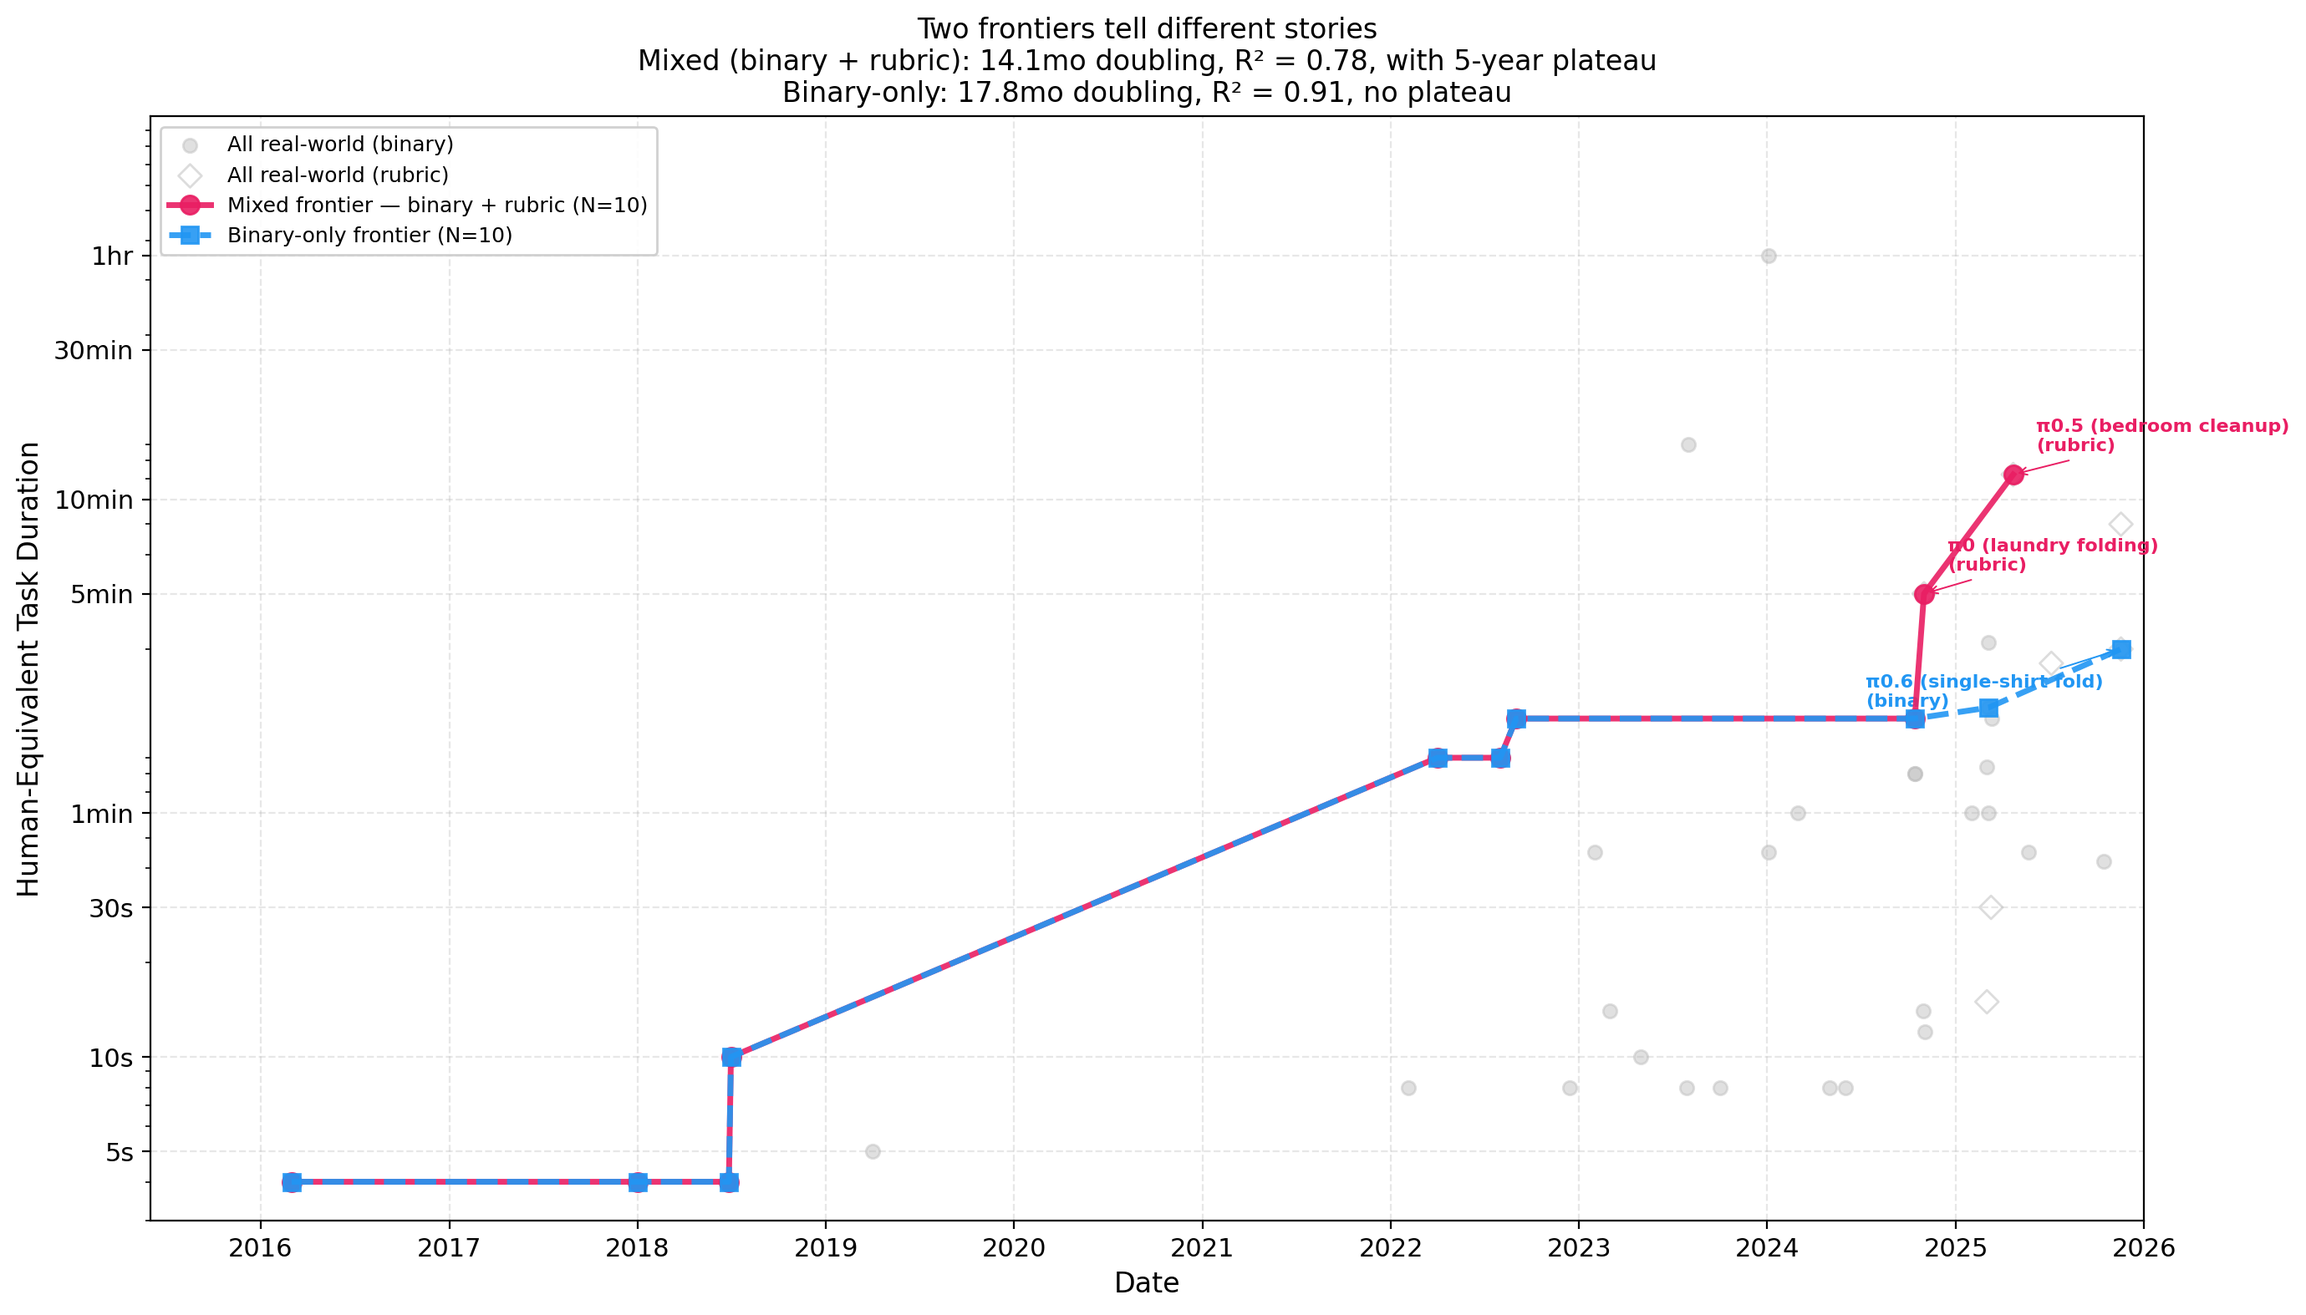
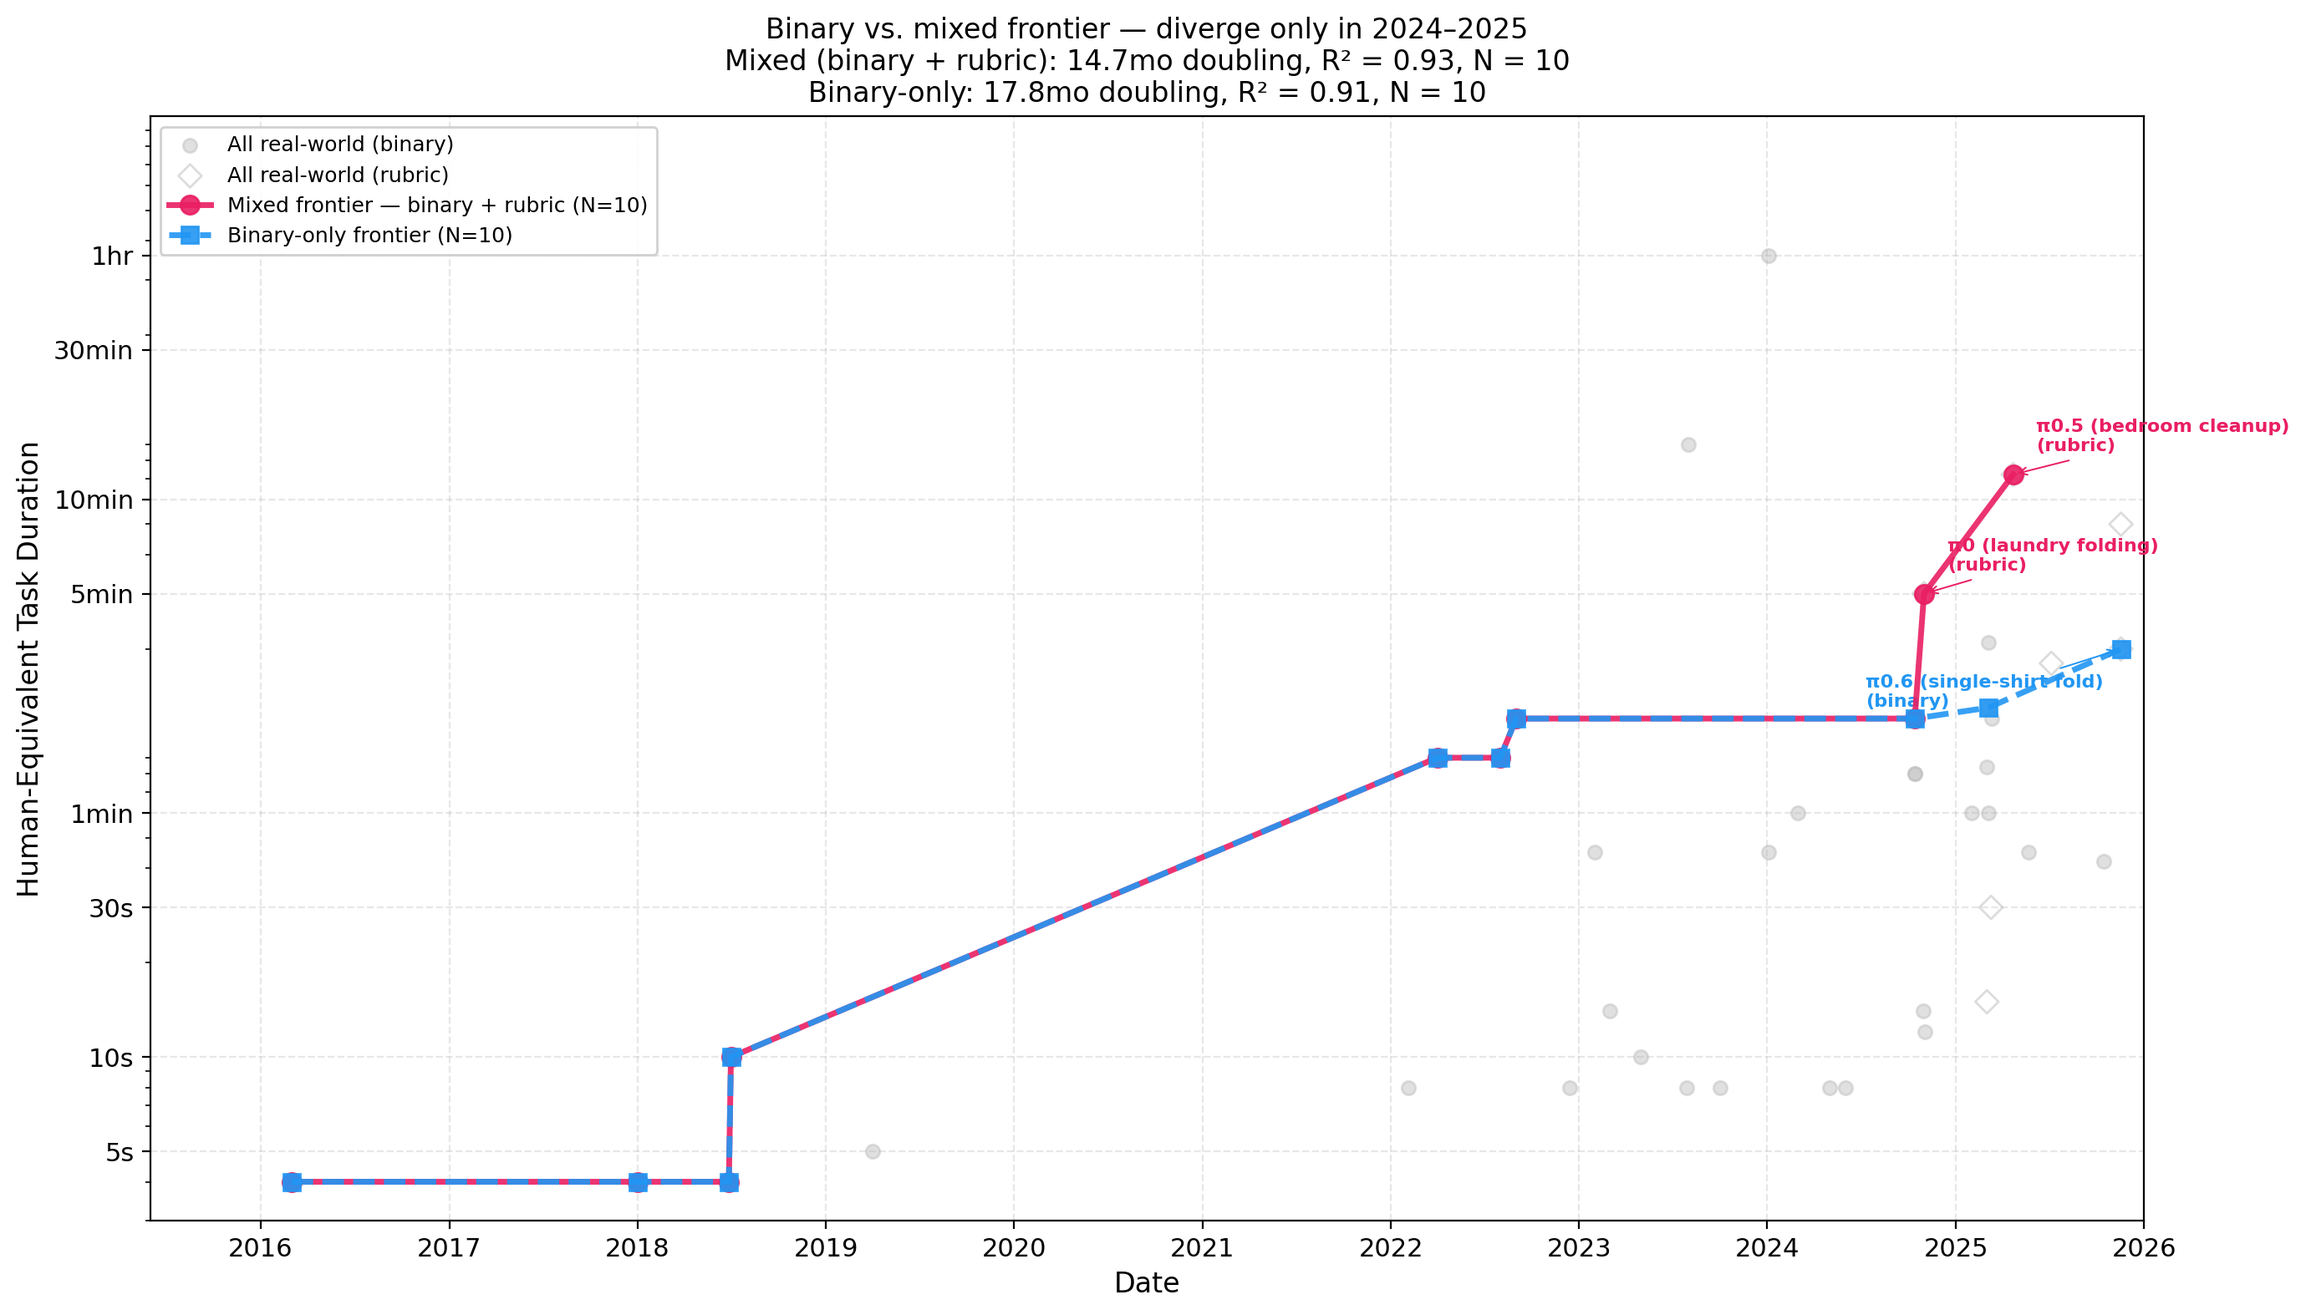
Reframe blog as meta-analysis and add future-of-eval section
Title and intro now state explicitly that this is a meta-analysis of
published results, not a unified evaluation. Methodology subsection
renamed accordingly. Adds a "On the future of robot eval" section
before the Conclusion sketching what a METR-rigor robot eval would
look like (heterogeneous hardware, real-only, pre-registered third-
party eval), what it would still miss (context-gathering, error
recovery, human-robot collaboration), and a call to startup/research/
investor communities. Also tightens binary-vs-mixed plot title to
reflect that the two frontiers diverge only at the recent end.

Changed region(s): [[0.2805, 0.0, 0.7169, 0.0934]]

diff --git a/scripts/plot_horizons.py b/scripts/plot_horizons.py
@@ -479,8 +479,9 @@ def plot_sensitivity(df, save=True):
 
 def plot_binary_vs_mixed_frontier(df, save=True):
     """Plot the canonical (binary + rubric) frontier and the binary-only
-    frontier on the same axes. The two tell different stories about the
-    2019–2024 plateau.
+    frontier on the same axes. They are identical through Oct 2024 and
+    diverge only at the recent end, where rubric-scored generalist VLAs
+    (π0, π0.5) extend the mixed frontier above the binary line.
     """
     fig, ax = plt.subplots(figsize=(14, 8))
 
@@ -548,9 +549,9 @@ def plot_binary_vs_mixed_frontier(df, save=True):
 
     ax.set_xlabel('Date')
     ax.set_ylabel('Human-Equivalent Task Duration')
-    ax.set_title('Two frontiers tell different stories\n'
-                 'Mixed (binary + rubric): 14.1mo doubling, R² = 0.78, with 5-year plateau\n'
-                 'Binary-only: 17.8mo doubling, R² = 0.91, no plateau',
+    ax.set_title('Binary vs. mixed frontier — diverge only in 2024–2025\n'
+                 'Mixed (binary + rubric): 14.7mo doubling, R² = 0.93, N = 10\n'
+                 'Binary-only: 17.8mo doubling, R² = 0.91, N = 10',
                  fontsize=12)
     ax.legend(loc='upper left', fontsize=9, framealpha=0.9)
     ax.grid(True, alpha=0.3, linestyle='--')

diff --git a/draft/blog_post.md b/draft/blog_post.md
@@ -1,4 +1,4 @@
-# The Task Horizon for Robotic Manipulation: A METR-Style Analysis
+# The Task Horizon for Robotic Manipulation: A Meta-Analysis of Published Results
 
 *How long a task can robots reliably complete — and how fast is that improving?*
 
@@ -8,7 +8,9 @@ METR's [time horizon analysis](https://metr.org/blog/2025-03-19-measuring-ai-abi
 
 One domain conspicuously absent from their analysis: **robotic manipulation**. Can we build the same chart for physical robots?
 
-We set out to answer this question by surveying a decade of robotic manipulation research (2016–2025), extracting the longest task each frontier system could complete at ≥50% success, and measuring that task in human-equivalent time. The result is, to our knowledge, the first "METR-style" task horizon plot for robotics.
+We set out to answer this question by surveying a decade of robotic manipulation research (2016–2025), extracting the longest task each frontier system could complete at ≥50% success, and measuring that task in human-equivalent time. The result is, to our knowledge, the first task horizon plot for robotics that aggregates across the field at this scale.
+
+**A note on what this is.** This study is a meta-analysis: we aggregated published numbers from 43 papers, technical reports, and benchmarks; we did not run a single new robot trial. METR's own studies are not meta-analyses — they evaluate every model on a shared, controlled task suite with measured human baselines, which is the gold standard for this kind of analysis. We can't replicate that for robotics today because the underlying infrastructure doesn't exist (more on why below, and on what it would take to build it in [On the future of robot eval](#on-the-future-of-robot-eval)). What we can do is rigorously aggregate what's already been published, document every judgment call, and publish the dataset so disagreements can be re-run rather than just argued.
 
 A caveat upfront: wide-scale unified evaluation is a harder problem for robotics than it is for LLMs. Manipulation results come in too many different shapes — different hardware, different task setups, different scoring protocols — to be made consistent the way LLM evaluations can be. That's a structural feature of the field, and it shapes everything that follows. We've done our best to extract a consistent signal from what's available; we don't claim the result is perfect, and we fully expect individual rows to be debated. The next section explains why the inconsistency is unavoidable for now.
 
@@ -44,11 +46,11 @@ Following METR, we define the **manipulation task horizon** as:
 
 **Human-equivalent time** is how long a competent human would take to perform the same task. This enables direct comparison with METR's LLM agent results, which use the same unit.
 
-We treat task duration as an **independently useful feature** — not as a proxy for task difficulty. Task difficulty is multidimensional (rigid vs. deformable objects, number of subtasks, degree of spatial reasoning required, etc.) and is not what we're directly measuring here. Duration is a meaningful capability metric on its own: it captures how long a robot can sustain reliable performance, regardless of whether a longer task is "harder" in any particular sense.
+We treat task duration as an **independently useful feature** — not as a proxy for task difficulty. Task difficulty is multidimensional (rigid vs. deformable objects, number of subtasks, degree of spatial reasoning required, etc.) and is not what we're directly measuring here. Duration is a meaningful capability metric on its own: it captures how long a robot can sustain reliable performance, regardless of whether a longer task is "harder" in any particular sense. The reason this matters operationally: per-step failure probability compounds over the length of a task, so each additional unit of autonomous duration directly determines how much human supervision a deployment requires. Task horizon is, in that sense, a fairly direct measure of the operational-cost axis of robot deployment, even when it doesn't tell you which specific tasks are harder than others.
 
-### Data Collection
+### Meta-Analytic Extraction
 
-We surveyed 43 robotic manipulation rows from published papers, benchmarks, and demonstrations spanning 2016–2025. For each, we recorded:
+This study is a meta-analysis. We surveyed 43 robotic manipulation rows from published papers, benchmarks, and demonstrations spanning 2016–2025 and re-aggregated their reported numbers under a single inclusion bar and a single set of conventions. We did not run any new robot trials. For each row, we recorded:
 
 - The longest task demonstrated at ≥50% success
 - The reported success rate and number of evaluation trials
@@ -213,17 +215,45 @@ Several parallel efforts inform this analysis:
 
 ## Limitations
 
-1. **Small frontier sample size.** The canonical frontier has 10 points spanning ~10 years. The exponential fit is suggestive but not definitive — the bootstrap CI (11.9–18.0 months) reflects the small N.
+1. **This is a meta-analysis, not a unified evaluation.** Every row is somebody else's reported number, extracted under our conventions and inclusion bar but not re-measured. We don't have shared tasks, shared hardware, or shared scoring across rows. METR's studies are not meta-analyses, and the methodology gap is real — see [On the future of robot eval](#on-the-future-of-robot-eval) for what closing it would take.
 
-2. **Heterogeneous evaluations.** Unlike METR, we cannot evaluate all systems on identical tasks. Hardware, evaluation protocols, and success criteria differ across every data point.
+2. **Publication and selection bias.** Authors choose which tasks to publish success rates for, and unsuccessful long-horizon attempts are systematically underreported. We may also be missing systems that pushed the frontier but weren't widely cited or didn't report success rates in a form we could include.
 
-3. **Human time estimation.** Some human-equivalent times are estimated rather than measured. We mark these in the dataset with confidence levels. METR themselves found this estimation is noisy even with controlled conditions.
+3. **Small frontier sample size.** The canonical frontier has 10 points spanning ~10 years. The exponential fit is suggestive but not definitive — the bootstrap CI (11.9–18.0 months) reflects the small N.
 
-4. **Selection bias.** We may be missing systems that pushed the frontier but weren't widely cited or didn't report success rates.
+4. **Heterogeneous evaluations.** Unlike METR, we cannot evaluate all systems on identical tasks. Hardware, evaluation protocols, and success criteria differ across every data point.
 
-5. **"Task horizon" ≠ "useful work."** As critics of METR's approach have noted, a 15-minute task horizon doesn't mean robots can replace 15 minutes of human work. Real tasks involve variability, error recovery, and context that benchmarks don't capture.
+5. **Human time estimation.** Some human-equivalent times are estimated rather than measured. We mark these in the dataset with confidence levels. METR themselves found this estimation is noisy even with controlled conditions.
 
-6. **Task length is one capability axis, not the only one.** The horizon metric captures temporal extension — how long the robot can sustain a coherent task. It does not capture object generalization, robustness across novel environments, in-hand dexterity, error recovery, or speed relative to humans. A robot that completes one 12-minute task at 70% rubric in a curated lab is not strictly more capable than one that completes 30-second tasks at 95% binary across 100 unseen kitchens — those are different kinds of progress, and a single duration-vs-time chart compresses them into one number.
+6. **"Task horizon" ≠ "useful work."** As critics of METR's approach have noted, a 15-minute task horizon doesn't mean robots can replace 15 minutes of human work. Real tasks involve variability, error recovery, and context that benchmarks don't capture.
+
+7. **Task length is one capability axis, not the only one.** The horizon metric captures temporal extension — how long the robot can sustain a coherent task. It does not capture object generalization, robustness across novel environments, in-hand dexterity, error recovery, or speed relative to humans. A robot that completes one 12-minute task at 70% rubric in a curated lab is not strictly more capable than one that completes 30-second tasks at 95% binary across 100 unseen kitchens — those are different kinds of progress, and a single duration-vs-time chart compresses them into one number.
+
+## On the future of robot eval
+
+What we did here is the meta-analytic version of METR's study. The version that actually matches METR's rigor — the version the field will need to track progress with confidence — does not yet exist. We don't think we should be the ones to build it, and we don't think any single lab should. But the conversation about *how to evaluate* manipulation is now as important as the policies themselves, and we want to sketch what a serious version of this study would look like, what it would still miss, and who we think should be paying attention.
+
+### What a rigorous version would look like
+
+**A standardized task suite.** A curated set of 30–100 tasks spanning ~5 seconds to several hours of human-equivalent time, with duration as a designed experimental variable rather than a byproduct of whatever the lab cared about. Tasks would need to span capability dimensions (rigid vs. deformable, dexterity, mobile vs. fixed-base, single vs. bimanual) and be specified well enough to be replicable across labs. Versioned releases with stable anchor tasks would let the trend line stay continuous as the suite evolves.
+
+**Heterogeneous hardware, tracked as a covariate.** We don't think it's possible to call for hardware unification right now — the manipulation hardware landscape is still moving too quickly, and there's no version of "this is what a manipulation system runs on" the way "this is what an LLM looks like" exists today. The realistic path is to allow any hardware and track it explicitly: form factor, DoF count, gripper type, mobile/fixed-base, sensor stack. Some of the noise that currently lives in cross-paper comparisons would move into the model — but at least it would be measurable.
+
+**Real-only evaluation.** Sim is useful for development, but sim-to-real gaps vary enough by task that mixing the two on a capability frontier will mislead. A serious benchmark for *what robots can actually do today* should run on physical hardware, with the cost and slowness that implies. This is the dimension where it is most tempting to compromise, and where compromising would do the most damage to the value of the resulting curve.
+
+**Real human baselines.** Contracted humans timing each task, multiple humans per task, recorded with confidence tiers — the way METR did. Without measured baselines, the x-axis of the chart is the loosest part of the analysis.
+
+**Pre-registered evaluation, third-party verified.** Researchers would submit policies before knowing the held-out task set, and a neutral lab would run evaluations with N≥50 trials per (system, task) and a documented success rubric. METR's approach for LLMs; nothing equivalent exists for robots. The robotics field has historically been open self-report, and once a benchmark starts to matter, that creates strong incentives to overfit. Pre-registration and third-party eval are how that gets resisted.
+
+**Funding and governance.** Centralized eval, hardware fleet, human baselines, and staff probably run $5–20M/year. Plausible models include a frontier-lab consortium (the MLCommons playbook), a philanthropic foundation, or a public-sector vehicle (NIST, DOE). ManipulationNet, RoboArena, and FurnitureBench are early steps in this direction — none of them yet match METR's rigor for robotics, but they are the closest infrastructure that exists.
+
+### What such a benchmark would still miss
+
+Even a clean, well-funded, METR-rigor task-horizon benchmark would only measure one slice of the deployment gap. Real deployments aren't graded on whether a robot can autonomously fold a shirt — they're graded on whether the robot can ask the right clarifying question when the laundry includes something delicate, recover from its own mistakes without a human reset, hand a tool to a person and get one back, and gather context from a novel environment before deciding what to do. Task horizon measures a single capability axis: how long the autonomous run can be before reliability drops below threshold. The gap between "robot completes 15-minute task at 70%" and "robot is useful in someone's home" lives largely *off* that axis — in context-gathering, error recovery, and human-robot collaboration. We see those as complementary frontiers, not substitutes, and we think the next generation of robotics evals will need to measure them explicitly rather than hope that longer task horizons drag them along.
+
+### A call to the community
+
+We're publishing this meta-analysis partly because the absence of a rigorous robot eval makes the kind of trend-line analysis the rest of the AI field has come to rely on impossible to do right now. We don't have the infrastructure or the mandate to build the benchmark we describe above. We think this is a problem worth the **startup, research, and investor communities** taking seriously. There are real reasons the obvious version of this doesn't exist — hardware heterogeneity, the cost of real-world trials, no clear funder, no incentive for individual labs to accept third-party eval — and any of those is a potentially good reason it still won't exist a year from now. But the field is making real progress, and without shared eval infrastructure no one can say with confidence how fast. Capital allocation, research priorities, and the broader narrative around when robots become useful all hinge on that question. If you're working on this, building toward it, or thinking about funding it — we'd like to hear from you.
 
 ## Conclusion
 
